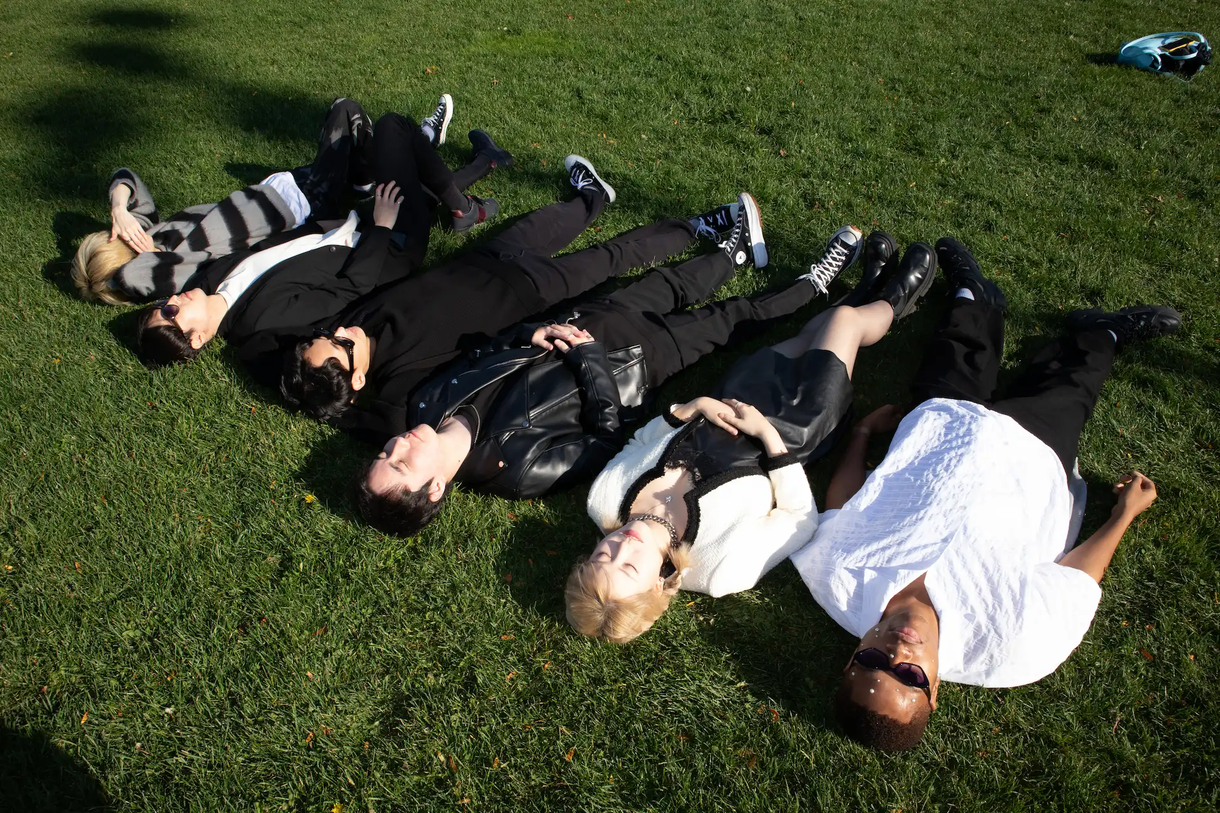
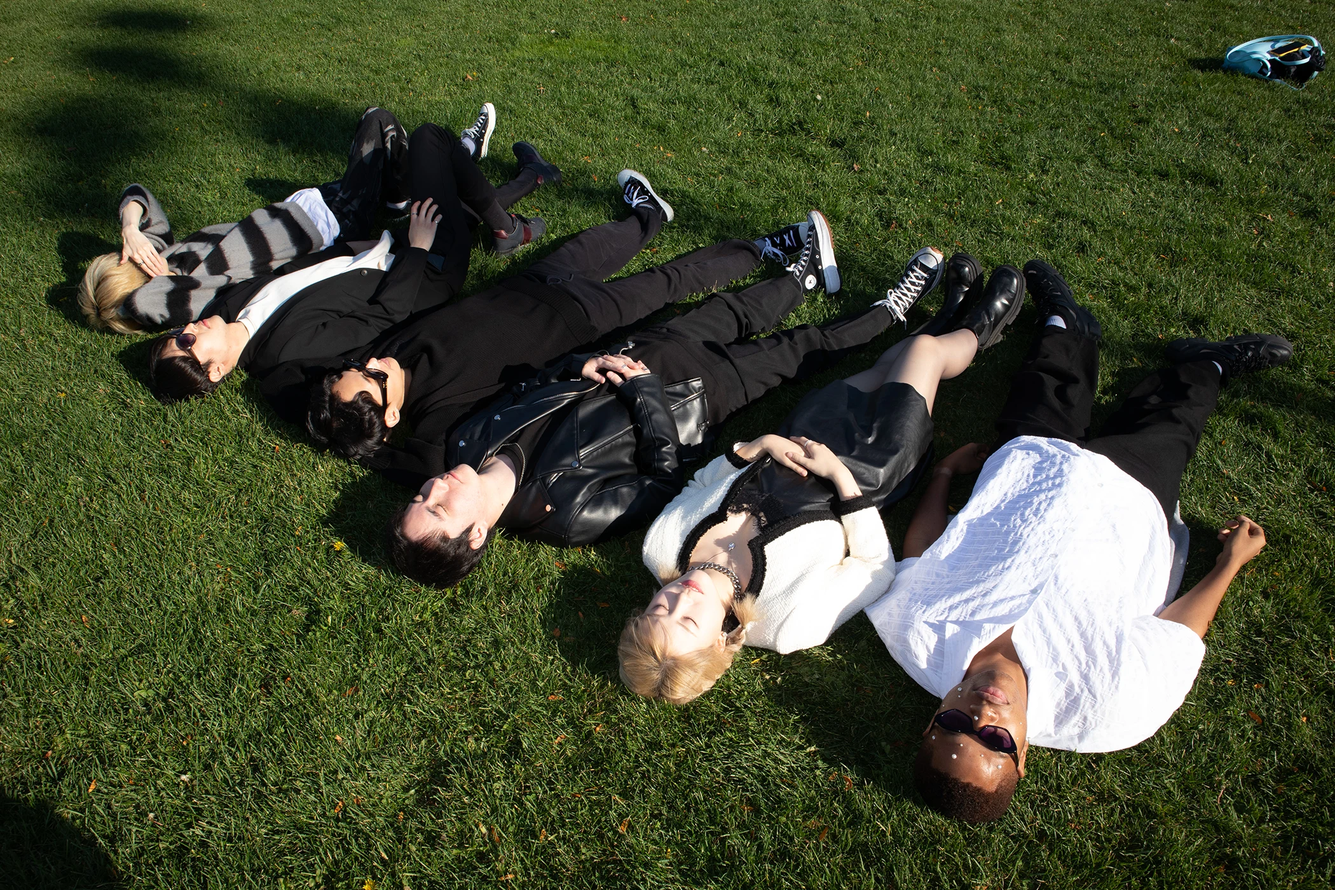
Finalize resolution difference media optimization. Implement and include first results

diff --git a/src/assets/data/iv-discography.js b/src/assets/data/iv-discography.js
@@ -11,10 +11,13 @@ import collectionArtworkImg from '@/assets/img/artworks/collection.jpeg';
 import collectionCarouselImg from '@/assets/img/carousel/collection.jpg';
 
 import lastDanceArtworkImg from '@/assets/img/artworks/last-dance.jpeg';
-import lastDanceCarouselImg from '@/assets/img/carousel/last-dance.jpg';
 
 import youthArtworkImg from '@/assets/img/artworks/youth.jpg';
-import youthIntermediateImg from '@/assets/img/bts/youth/a-grass-lying-down.jpg';
+import youthBtsAGrassLyingDownImg from '@/assets/img/bts/youth/a-grass-lying-down.jpg';
+import youthBtsAGrassLyingDownImg4k from '@/assets/img/bts/youth/4k/a-grass-lying-down.webp';
+import youthBtsAGrassLyingDownImgQhd from '@/assets/img/bts/youth/qhd/a-grass-lying-down.webp';
+import youthBtsAGrassLyingDownImgHd from '@/assets/img/bts/youth/hd/a-grass-lying-down.webp';
+import youthBtsAGrassLyingDownImgMobile from '@/assets/img/bts/youth/mobile/a-grass-lying-down.webp';
 
 const ivDiscography = [
   {
@@ -32,8 +35,20 @@ const ivDiscography = [
     },
     media: {
       artwork: youthArtworkImg,
-      carousel: youthIntermediateImg,
-      intermediate: youthIntermediateImg,
+      carousel: {
+        ['4k']: youthBtsAGrassLyingDownImg4k,
+        ['qhd']: youthBtsAGrassLyingDownImgQhd,
+        ['hd']: youthBtsAGrassLyingDownImgHd,
+        ['mobile']: youthBtsAGrassLyingDownImgMobile,
+        ['original']: youthBtsAGrassLyingDownImg,
+      },
+      intermediate: {
+        ['4k']: youthBtsAGrassLyingDownImg4k,
+        ['qhd']: youthBtsAGrassLyingDownImgQhd,
+        ['hd']: youthBtsAGrassLyingDownImgHd,
+        ['mobile']: youthBtsAGrassLyingDownImgMobile,
+        ['original']: youthBtsAGrassLyingDownImg,
+      },
     },
     platforms: {
       publication: 'YouthPublication',
@@ -70,8 +85,6 @@ const ivDiscography = [
     },
     media: {
       artwork: lastDanceArtworkImg,
-      carousel: lastDanceCarouselImg,
-      intermediate: lastDanceCarouselImg,
     },
     platforms: {
       melon: 'https://www.melon.com/album/detail.htm?albumId=11165846',

diff --git a/src/views/discography/publications/YouthPublication.vue b/src/views/discography/publications/YouthPublication.vue
@@ -59,12 +59,11 @@
     </div>
 
     <picture>
-      <source :srcset="youthBtsMobileImg1" media="(max-width: 600px)" />
-      <source :srcset="youthBtsTabletImg1" media="(max-width: 1024)" />
-      <source :srcset="youthBtsHdImg1" media="(max-width: 1920px)" />
-      <source :srcset="youthBtsQhdImg1" media="(max-width: 2560px)" />
-      <source :srcset="youthBts4kImg1" media="(min-width: 3840px)" />
-      <img class="full-width-img" :src="youthBtsOriginalImg1" draggable="false" />
+      <source :srcset="youthBtsImg1_Mobile" media="(max-width: 1280px)" />
+      <source :srcset="youthBtsImg1_Hd" media="(max-width: 1920px)" />
+      <source :srcset="youthBtsImg1_Qhd" media="(max-width: 2560px)" />
+      <source :srcset="youthBtsImg1_4k" media="(min-width: 3840px)" />
+      <img class="full-width-img" :src="youthBtsImg1" draggable="false" />
     </picture>
     <div class="img-caption">
       <p class="caption-title">
@@ -141,12 +140,11 @@
 <script setup>
 import youthArtworkImg from '@/assets/img/artworks/youth.jpg';
 
-import youthBtsOriginalImg1 from '@/assets/img/bts/youth/a-grass-lying-down.jpg';
-import youthBts4kImg1 from '@/assets/img/bts/youth/4k/a-grass-lying-down.webp';
-import youthBtsQhdImg1 from '@/assets/img/bts/youth/qhd/a-grass-lying-down.webp';
-import youthBtsHdImg1 from '@/assets/img/bts/youth/hd/a-grass-lying-down.webp';
-import youthBtsTabletImg1 from '@/assets/img/bts/youth/tablet/a-grass-lying-down.webp';
-import youthBtsMobileImg1 from '@/assets/img/bts/youth/mobile/a-grass-lying-down.webp';
+import youthBtsImg1 from '@/assets/img/bts/youth/a-grass-lying-down.jpg';
+import youthBtsImg1_4k from '@/assets/img/bts/youth/4k/a-grass-lying-down.jpg';
+import youthBtsImg1_Qhd from '@/assets/img/bts/youth/qhd/a-grass-lying-down.webp';
+import youthBtsImg1_Hd from '@/assets/img/bts/youth/hd/a-grass-lying-down.webp';
+import youthBtsImg1_Mobile from '@/assets/img/bts/youth/mobile/a-grass-lying-down.webp';
 
 import SupportedLanguages from '@/lib/enums/lang.js';
 

diff --git a/src/components/widgets/IVCarousel.vue b/src/components/widgets/IVCarousel.vue
@@ -23,8 +23,15 @@
         class="carousel-item-wrapper"
         v-touch:tap="handleItemSelected"
         @click="handleItemSelected"
-        :style="{ backgroundImage: `url(${carouselItem.media.carousel})` }"
-      />
+      >
+        <picture>
+          <source :srcset="carouselItem.media.carousel['mobile']" media="(max-width: 1280)" />
+          <source :srcset="carouselItem.media.carousel['hd']" media="(max-width: 1920px)" />
+          <source :srcset="carouselItem.media.carousel['qhd']" media="(max-width: 2560px)" />
+          <source :srcset="carouselItem.media.carousel['4k']" media="(min-width: 3840px)" />
+          <img :src="carouselItem.media.carousel['original']" draggable="false" />
+        </picture>
+      </div>
     </transition-group>
     <!-- Left/right controls -->
     <button class="carousel-control-wrapper left unselectable" :disabled="controlDisabled" @click="prevItem">
@@ -193,8 +200,6 @@ $color-active-opaque: rgb(255 255 255 / 1);
     height: 100%;
 
     .carousel-item-wrapper {
-      overflow: hidden;
-
       /* Needed to trigger animation */
       position: absolute;
       top: 0;
@@ -206,16 +211,17 @@ $color-active-opaque: rgb(255 255 255 / 1);
       width: 100%;
       height: 100%;
 
-      background-size: cover !important;
-      background-position: center !important;
-      background-repeat: no-repeat;
-
-      -webkit-background-size: cover !important;
-      -moz-background-size: cover !important;
-      -o-background-size: cover !important;
-      background-position: center !important;
+      overflow: hidden;
 
       cursor: pointer;
+
+      img {
+        width: 100%;
+        height: 100%;
+
+        object-fit: cover;
+        object-position: center;
+      }
     }
   }
 
